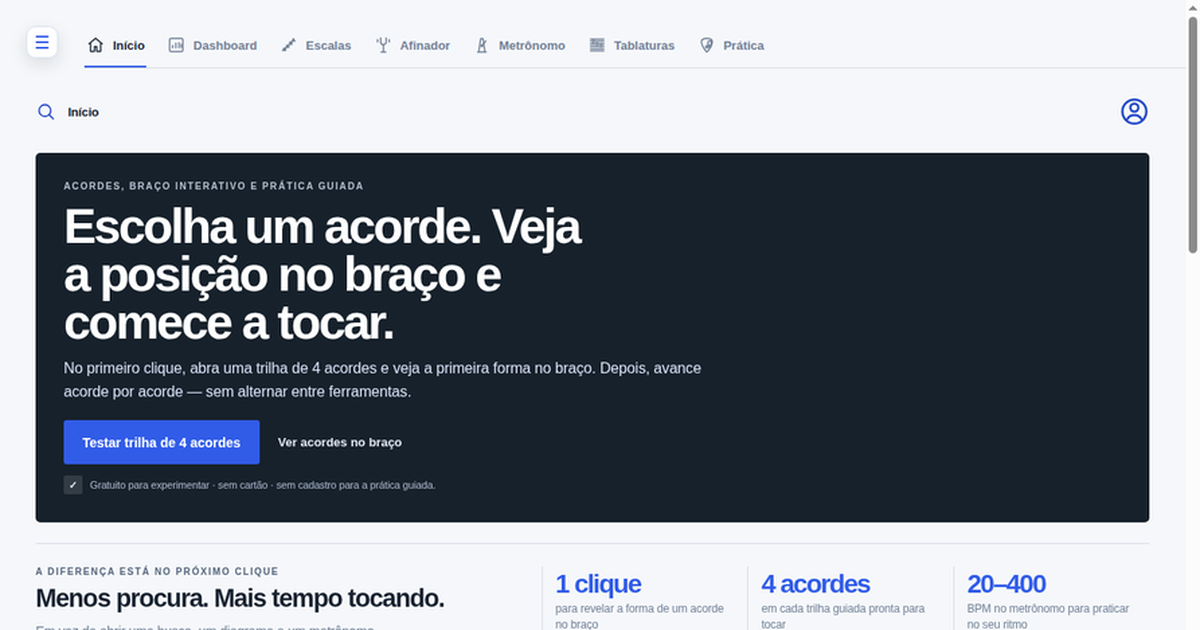
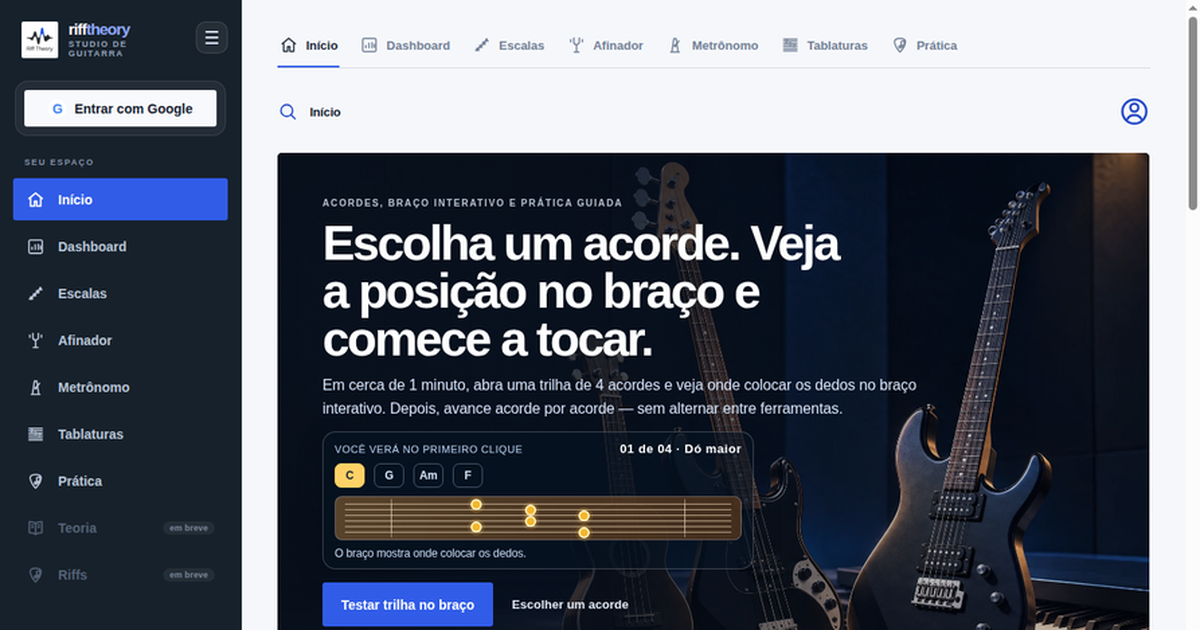
Refresh social preview with current site layout

diff --git a/index.html b/index.html
@@ -20,17 +20,17 @@
         <meta property="og:title" content="Riff Theory | Acordes e prática guiada para guitarra" />
         <meta property="og:description" content="Veja a forma dos acordes no braço e pratique uma trilha de 4 acordes. Comece sem cadastro e sem cartão." />
         <meta property="og:url" content="https://rifftheory.vercel.app/" />
-        <meta property="og:image" content="https://rifftheory.vercel.app/hero-wide.webp?v=3" />
-        <meta property="og:image:secure_url" content="https://rifftheory.vercel.app/hero-wide.webp?v=3" />
-        <meta property="og:image:type" content="image/webp" />
-        <meta property="og:image:width" content="2560" />
-        <meta property="og:image:height" content="1440" />
-        <meta property="og:image:alt" content="Instrumentos musicais do Riff Theory para estudar acordes, escalas e prática de guitarra" />
+        <meta property="og:image" content="https://rifftheory.vercel.app/social-preview.png?v=4" />
+        <meta property="og:image:secure_url" content="https://rifftheory.vercel.app/social-preview.png?v=4" />
+        <meta property="og:image:type" content="image/png" />
+        <meta property="og:image:width" content="1200" />
+        <meta property="og:image:height" content="630" />
+        <meta property="og:image:alt" content="Prévia do site Riff Theory com navegação, prática guiada e braço interativo de guitarra" />
         <meta name="twitter:card" content="summary_large_image" />
         <meta name="twitter:title" content="Riff Theory | Acordes e prática guiada para guitarra" />
         <meta name="twitter:description" content="Veja a forma dos acordes no braço e pratique uma trilha de 4 acordes. Comece sem cadastro e sem cartão." />
-        <meta name="twitter:image" content="https://rifftheory.vercel.app/hero-wide.webp?v=3" />
-        <meta name="twitter:image:alt" content="Instrumentos musicais do Riff Theory para estudar acordes, escalas e prática de guitarra" />
+        <meta name="twitter:image" content="https://rifftheory.vercel.app/social-preview.png?v=4" />
+        <meta name="twitter:image:alt" content="Prévia do site Riff Theory com navegação, prática guiada e braço interativo de guitarra" />
         <title>Riff Theory | Acordes e prática guiada para guitarra</title>
         <link rel="manifest" href="manifest.json" />
         <link rel="icon" type="image/png" href="/rounded_icon.png" />
